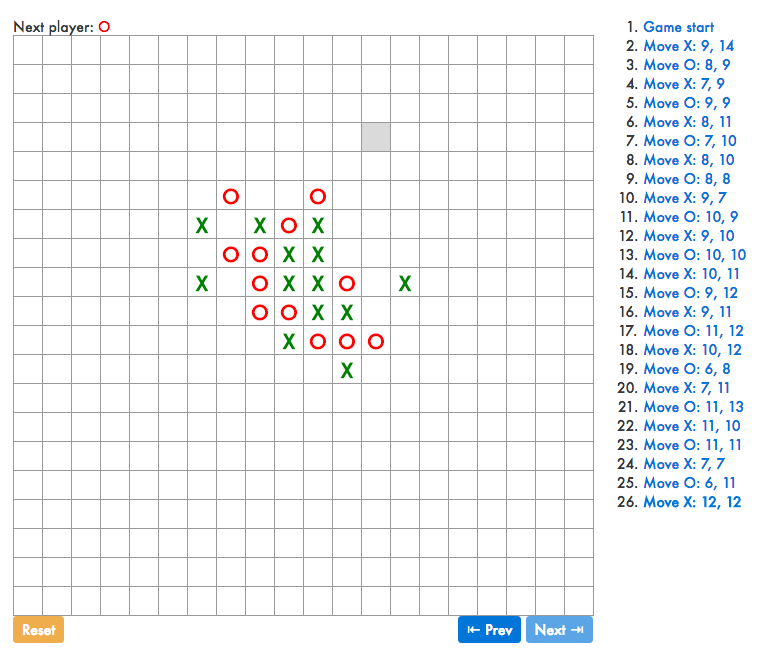
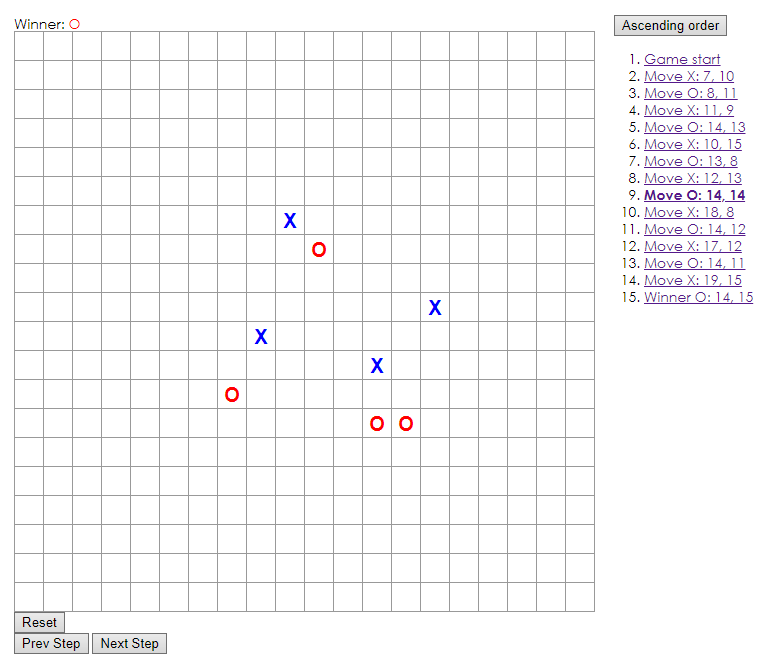
location, bold selected, ascend descend, highlight

Changed region(s): [[0.0, 0.0, 0.9909, 1.0]]

diff --git a/src/index.js b/src/index.js
@@ -6,6 +6,7 @@ import Status from './components/status';
 import ResetButton from './components/reset-button';
 import Navigation from './components/navigation';
 import './style.css';
+import MoveAD from './components/moveAD';
 
 
 class Position {
@@ -19,8 +20,8 @@ class Position {
   }
 }
 
-function checkRow(squares, x) {
-    return (squares[x] && squares[x] === squares[x+1] && squares[x] === squares[x+2] && squares[x] === squares[x+3] && squares[x] === squares[x+4]);
+function checkRow(squares, x, step) {
+    return (squares[x] && squares[x] === squares[x+step] && squares[x] === squares[x+step*2] && squares[x] === squares[x+step*3] && squares[x] === squares[x+step*4]);
 
 }
 class Game extends React.Component {
@@ -32,11 +33,13 @@ class Game extends React.Component {
       }],
       nextPlayer: 'X',
       stepNumber: 0,
+      moveAD: 'A',
     };
 
     this.handleClick = this.handleClick.bind(this);
     this.resetGame = this.resetGame.bind(this);
     this.jumpTo = this.jumpTo.bind(this);
+    this.asdes = this.asdes.bind(this);
   }
 
   currentSquares() {
@@ -62,24 +65,48 @@ class Game extends React.Component {
   }
 
   calculateWinner(squares) {
-    let a,b,c,d,e = null;
-    const lines = [a,b,c,d,e];
+    let lines = [];
+    let step = 0;
     //horizontal
+    step = 1;
     for (let x = 0; x < BOARD_SIZE; x++) { 
       for (let y = x*BOARD_SIZE; y < (x*BOARD_SIZE+BOARD_SIZE)-4; y++){
-        if (checkRow(squares,y)) {
-          return {player: squares[y], line: lines[y,y+1,y+2,y+3,y+4]};
+        if (checkRow(squares,y,step)) {
+          lines[0]=[y,y+step,y+step*2,y+step*3,y+step*4]
+          return {player: squares[y], line: lines[0]};
         }
       }
     }  
-
-
-    // for (let i = 0; i < lines.length; i++) {
-    //   const [a, b, c] = lines[i];
-    //   if (checkRow(squares,a)) {
-    //     return {player: squares[a], line: lines[i]};
-    //   }
-    // }
+    //vertical
+    step = BOARD_SIZE;
+    for (let x = 0; x < BOARD_SIZE-4; x++) { 
+      for (let y = x*BOARD_SIZE; y < (x*BOARD_SIZE+BOARD_SIZE); y++){
+        if (checkRow(squares,y,step)) {
+          lines[0]=[y,y+step,y+step*2,y+step*3,y+step*4]
+          return {player: squares[y], line: lines[0]};
+        }
+      }
+    }  
+    //major diag
+    step = BOARD_SIZE+1;
+    for (let x = 0; x < BOARD_SIZE-4; x++) { 
+      for (let y = x*BOARD_SIZE; y < (x*BOARD_SIZE+BOARD_SIZE)-4; y++){
+        if (checkRow(squares,y,step)) {
+          lines[0]=[y,y+step,y+step*2,y+step*3,y+step*4]
+          return {player: squares[y], line: lines[0]};
+        }
+      }
+    }  
+    //minor diag
+    step = BOARD_SIZE-1;
+    for (let x = 0; x < BOARD_SIZE; x++) { 
+      for (let y = x*BOARD_SIZE+4; y < (x*BOARD_SIZE+BOARD_SIZE); y++){
+        if (checkRow(squares,y,step)) {
+          lines[0]=[y,y+step,y+step*2,y+step*3,y+step*4]
+          return {player: squares[y], line: lines[0]};
+        }
+      }
+    } 
     return null;
   }
 
@@ -100,11 +127,25 @@ class Game extends React.Component {
     });
   }
 
+  asdes(){
+    if (this.state.moveAD === 'A'){
+      this.setState({
+        moveAD: 'D',
+      })
+    } else {
+      this.setState({
+        moveAD: 'A',
+      })
+    }
+  }
+
   render() {
     const history = this.state.history;
     const lastSquares = history[history.length - 1].squares;
     const winner = this.calculateWinner(lastSquares);
+    const draw = lastSquares.every(element => element !== null) ? 'D' : null;
     const winnerPlayer = winner ? winner.player : null;
+    let movead = this.state.moveAD;
     let winnerLine = null;
     // only show winner line when last move is selected in history
     if (winner && this.state.stepNumber === history.length - 1 ) {
@@ -114,7 +155,7 @@ class Game extends React.Component {
     return (
       <div className="game">
         <div className="game-board">
-          <Status winner={winnerPlayer} nextPlayer={this.state.nextPlayer} />
+          <Status winner={winnerPlayer} nextPlayer={this.state.nextPlayer} draw={draw}/>
           <Board winnerLine={winnerLine} squares={this.currentSquares()}
                  onClick={this.handleClick} />
           <ResetButton onReset={this.resetGame} />
@@ -123,7 +164,9 @@ class Game extends React.Component {
                       onClick={this.jumpTo} />
         </div>
         <div className="game-info">
-          <MoveList history={this.state.history} winner={winnerPlayer}
+          <MoveAD movead={movead} 
+                  onClick={this.asdes}/>
+          <MoveList history={this.state.history} winner={winnerPlayer} draw={draw} movead={movead}
                     onClick={this.jumpTo} stepNumber={this.state.stepNumber} />
         </div>
       </div>

diff --git a/src/components/move-list.js b/src/components/move-list.js
@@ -8,7 +8,9 @@ function MoveList(props) {
       desc = 'Game start';
     } else if (move === props.history.length - 1 && props.winner) {
       desc = 'Winner ' + props.winner + ': ' + step.position.toString();
-    } else if (move === props.stepNumber) {
+    }  else if (move === props.history.length - 1 && props.draw) {
+      desc = 'Draw: '+ step.position.toString();
+    }  else if (move === props.stepNumber) {
       desc = <b>Move {step.player}: {step.position.toString()} </b>;
     } else {
       desc = 'Move ' + step.player + ': ' + step.position.toString();
@@ -21,6 +23,9 @@ function MoveList(props) {
     );
   });
 
+  if (props.movead === 'D'){
+    moves.reverse();
+  }
   return (
     <ol>{moves}</ol>
   );

diff --git a/src/components/moveAD.js b/src/components/moveAD.js
@@ -1,0 +1,26 @@
+import React from 'react';
+
+
+function MoveAD(props) {
+  if (props.movead === 'A'){
+    return (
+      <div>
+        <button className="btn btn-sm btn-primary pull-xs-right"
+                onClick={() => props.onClick(props.asdes)}>
+          Ascending order
+        </button>
+      </div>
+    );
+  } else {
+    return (
+      <div>
+        <button className="btn btn-sm btn-primary pull-xs-right"
+                onClick={() => props.onClick(props.asdes)}>
+          Descending order
+        </button>
+      </div>
+    );
+  }
+}
+
+export default MoveAD;

diff --git a/src/components/status.js b/src/components/status.js
@@ -3,10 +3,15 @@ import Sign from './sign';
 
 
 function Status(props) {
-  if (props.winner) {
-    return <div> Winner: <Sign player={props.winner} /> </div>;
-  } else {
-    return <div> Next player: <Sign player={props.nextPlayer} /> </div>;
+  if (props.draw) {
+    return <div> Its a draw!</div>;
+  }
+  else {
+    if (props.winner) {
+      return <div> Winner: <Sign player={props.winner} /> </div>;
+    } else {
+      return <div> Player: <Sign player={props.nextPlayer} /> </div>;
+    } 
   }
 }
 

diff --git a/src/components/board.js b/src/components/board.js
@@ -1,7 +1,8 @@
 import React from 'react';
 import Sign from './sign';
 
-export const SIZE = 20;
+//export const SIZE = 20;
+export const SIZE = 5;
 
 
 function Square(props) {

diff --git a/README.md b/README.md
@@ -3,15 +3,16 @@
 Enchanced version of the [official React tutorial](https://facebook.github.io/react/tutorial/tutorial.html).
 
 Enhancements:
-- Display move locations
-- Bold the currently-selected item in the move list
-- Rewritten Board to use two loops to make the squares instead of hardcoding them
+- Display the location for each move in the format (col, row) in the move history list.
+- Bold the currently selected item in the move list.
+- Rewrite Board to use two loops to make the squares instead of hardcoding them. Rewrite the winning rule to 5 consecutive squares.
 - Reset button with confirmation
 - Can go backward and forward in history
-- Show current Move with Bold
-- Colored signs
+- Add a toggle button that lets you sort the moves in either ascending or descending order.
 - 20x20 board
-- Highlights winning squares on a 3x3 board (when `SIZE=3` in `board.js`)
+- Highlights winning squares
+- When no one wins (every square is filled), display a message about the result being a draw.
 
 It looks like this:
 ![Screenshot](screenshot.png)
+![Screenshot](screenshot2.png)
